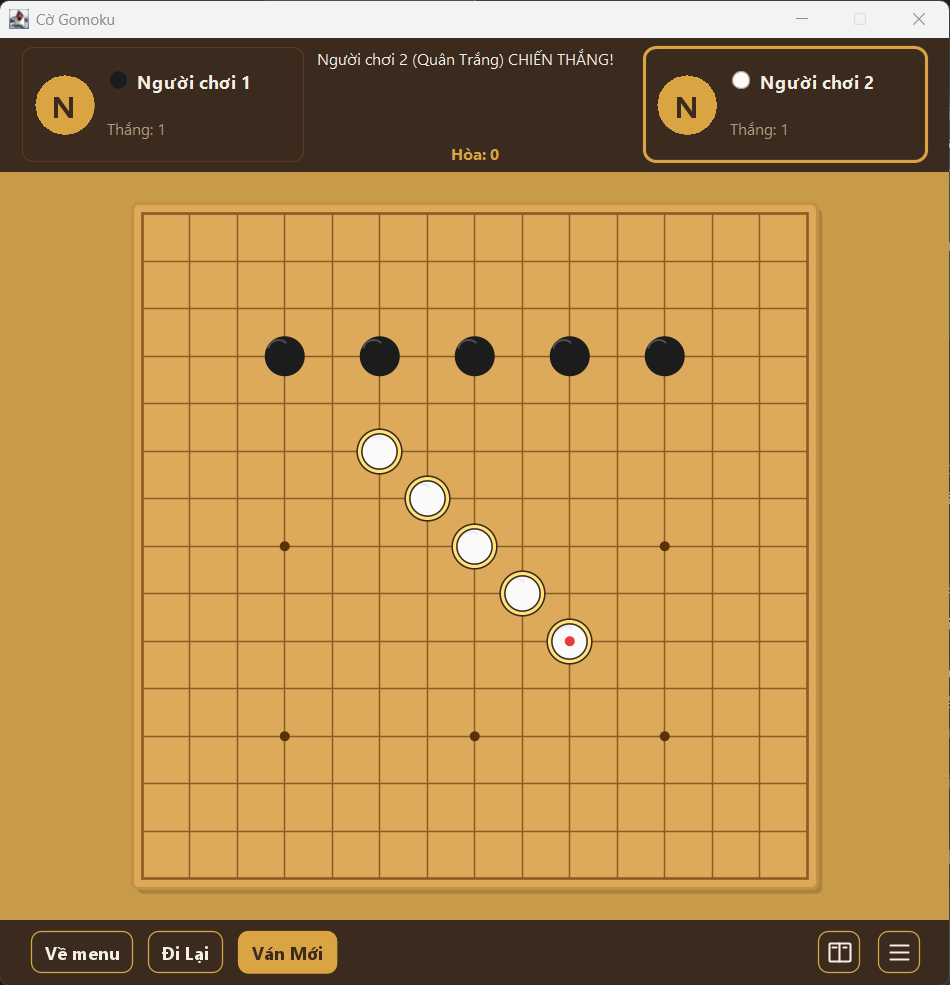
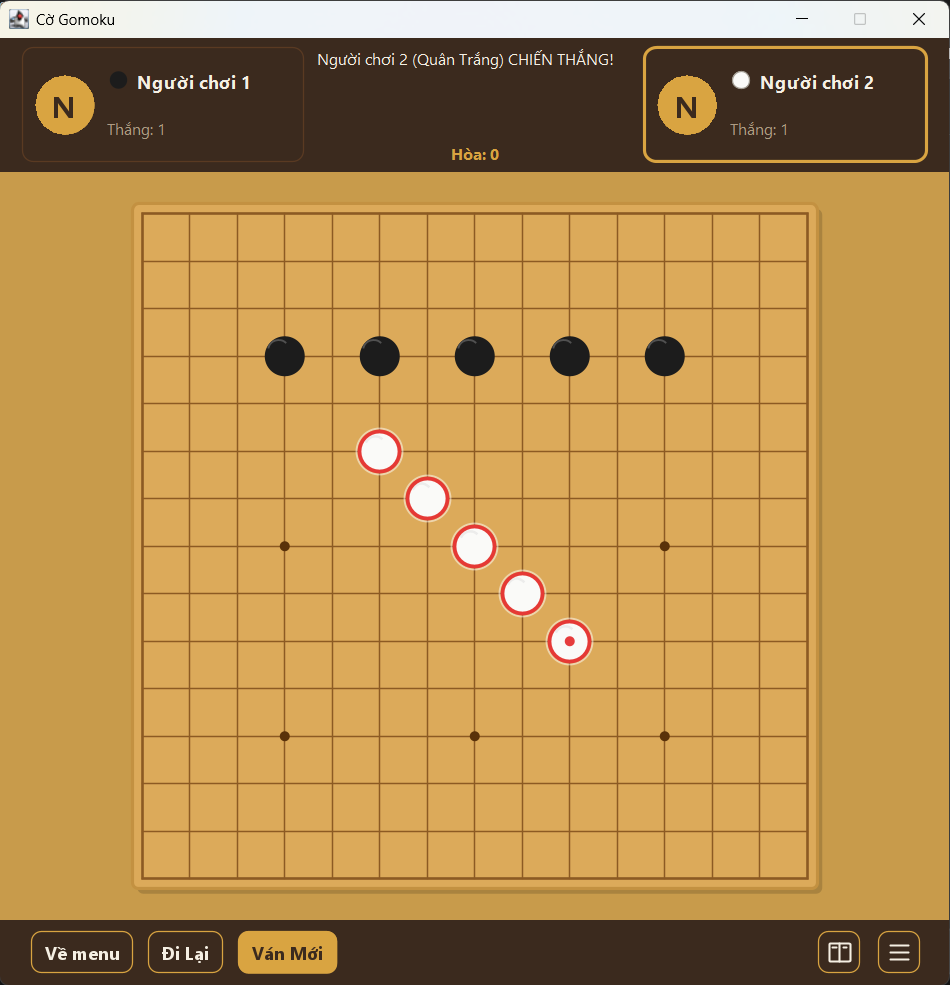
style: make win highlight contrast with wooden board

Changed region(s): [[0.3663, 0.4264, 0.6411, 0.7005], [0.0611, 0.0, 0.1221, 0.0305]]

diff --git a/src/game/view/BoardPanel.java b/src/game/view/BoardPanel.java
@@ -9,6 +9,7 @@ import game.network.NetworkManager;
 import javax.swing.*;
 import java.awt.*;
 import java.awt.event.*;
+import java.awt.geom.Ellipse2D;
 import java.util.ArrayList;
 import java.util.Collections;
 import java.util.List;
@@ -35,7 +36,10 @@ public class BoardPanel extends JPanel {
 
     // Màu quân cờ
     private static final Color LAST_MARKER      = Theme.MOVE_MARKER;
-    private static final Color WINNING_RING    = new Color(0xFFE27A);
+    private static final Color WIN_HIGHLIGHT_COLOR = new Color(0xE53935);
+    private static final Color WIN_HIGHLIGHT_OUTLINE_COLOR = new Color(255, 255, 255, 128);
+    private static final float WIN_HIGHLIGHT_WIDTH = 3f;
+    private static final float WIN_HIGHLIGHT_OUTLINE_WIDTH = 1.5f;
 
     private static final int STONE_RADIUS = CELL_SIZE / 2 - 3;
 
@@ -589,17 +593,21 @@ public class BoardPanel extends JPanel {
         if (winningLine.isEmpty()) return;
         Graphics2D g = (Graphics2D) graphics.create();
         int diameter = 2 * STONE_RADIUS;
-        BasicStroke outline = new BasicStroke(5f);
-        BasicStroke ring = new BasicStroke(2.5f);
+        float outlineRadius = STONE_RADIUS + (WIN_HIGHLIGHT_WIDTH + WIN_HIGHLIGHT_OUTLINE_WIDTH) / 2f;
+        Ellipse2D.Float outlineShape = new Ellipse2D.Float();
+        BasicStroke outline = new BasicStroke(WIN_HIGHLIGHT_OUTLINE_WIDTH);
+        BasicStroke ring = new BasicStroke(WIN_HIGHLIGHT_WIDTH);
         for (Board.Cell cell : winningLine) {
-            int x = OFFSET + cell.col() * CELL_SIZE - STONE_RADIUS;
-            int y = OFFSET + cell.row() * CELL_SIZE - STONE_RADIUS;
-            g.setColor(Theme.DARK);
+            int centerX = OFFSET + cell.col() * CELL_SIZE;
+            int centerY = OFFSET + cell.row() * CELL_SIZE;
+            outlineShape.setFrame(centerX - outlineRadius, centerY - outlineRadius,
+                    2 * outlineRadius, 2 * outlineRadius);
+            g.setColor(WIN_HIGHLIGHT_OUTLINE_COLOR);
             g.setStroke(outline);
-            g.drawOval(x, y, diameter, diameter);
-            g.setColor(WINNING_RING);
+            g.draw(outlineShape);
+            g.setColor(WIN_HIGHLIGHT_COLOR);
             g.setStroke(ring);
-            g.drawOval(x, y, diameter, diameter);
+            g.drawOval(centerX - STONE_RADIUS, centerY - STONE_RADIUS, diameter, diameter);
         }
         g.dispose();
     }
